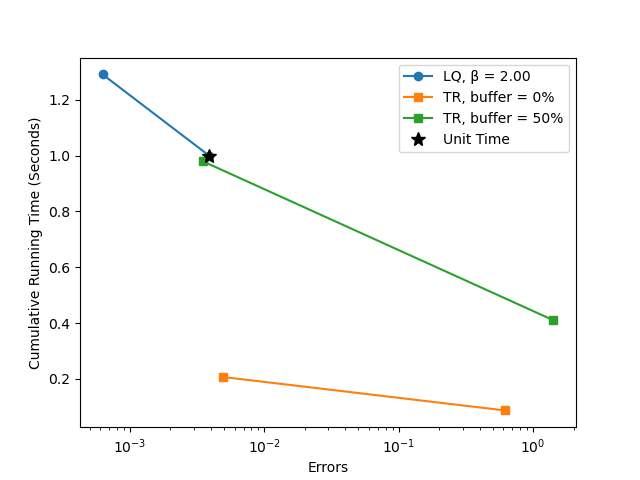
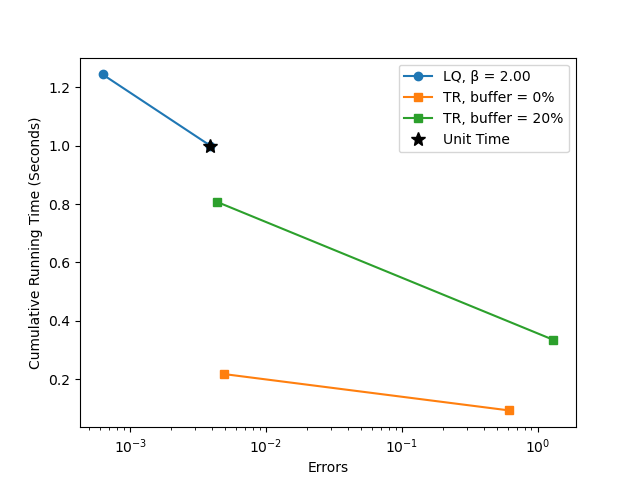
Parameters Change to run on server

diff --git a/2DTiming_TRvsLQ_Loop.py b/2DTiming_TRvsLQ_Loop.py
@@ -12,7 +12,7 @@ import time
 dimension = 2
 radius = 2
 h = 0.05
-betaVals = [2,3]
+betaVals = [2, 2.5]
 bufferVals = [0, 0.5]
 endTime = 30
 spacingLQVals = [0.45, 0.35]
@@ -148,7 +148,7 @@ plt.plot(unitError, unitTime/unitTime, "*k", markersize = "10", label = "Unit Ti
 plt.legend()
 plt.xlabel("Errors")
 plt.ylabel("Cumulative Running Time (Seconds)")
-plt.savefig('Output/timingFigureT30aa-2.png')
+plt.savefig('Output/timingFigureT30aaa-2.png')
 
 
 ListToSave = [betaDict_times, betaDict_errors, bufferDict_times, bufferDict_errors, betaVals, bufferVals, spacingLQVals, spacingTRVals, numPointsLQ, numPointsTR, h, radius, endTime]
@@ -156,14 +156,14 @@ import pickle
 
 # define dictionary
 # create a binary pickle file
-f = open("Output/fileT30aa-2.pkl","wb")
+f = open("Output/fileT30aaa-2.pkl","wb")
 pickle.dump(ListToSave,f)
 f.close()
 
 
 import sys
 original_stdout = sys.stdout # Save a reference to the original standard output
-with open('Output/outputInformationT30aa-2.txt', 'w') as f:
+with open('Output/outputInformationT30aaa-2.txt', 'w') as f:
     sys.stdout = f # Change the standard output to the file we created.
     print("Erorrs LQ", betaDict_errors)
     print("Errors TR", bufferDict_errors)
